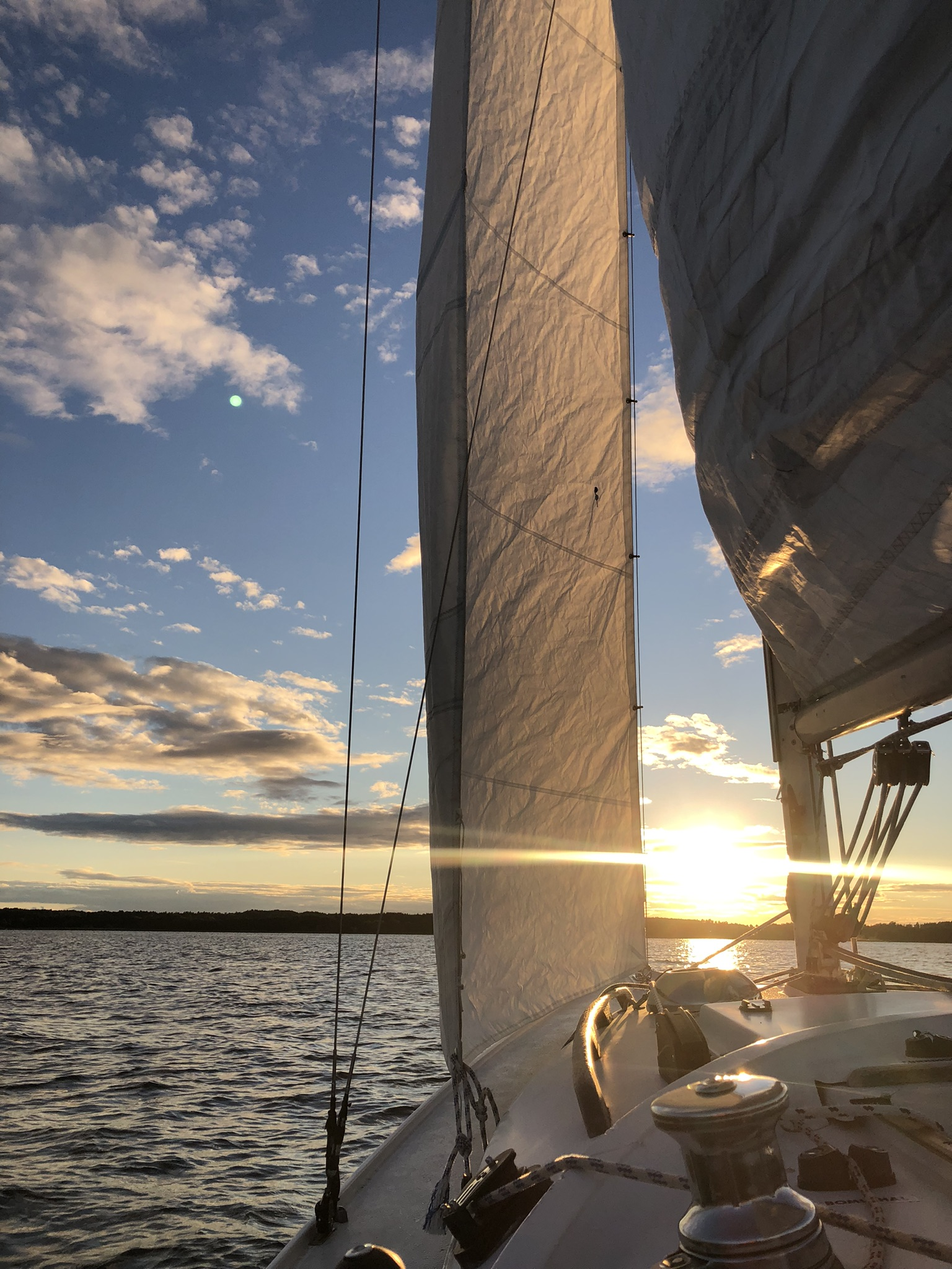
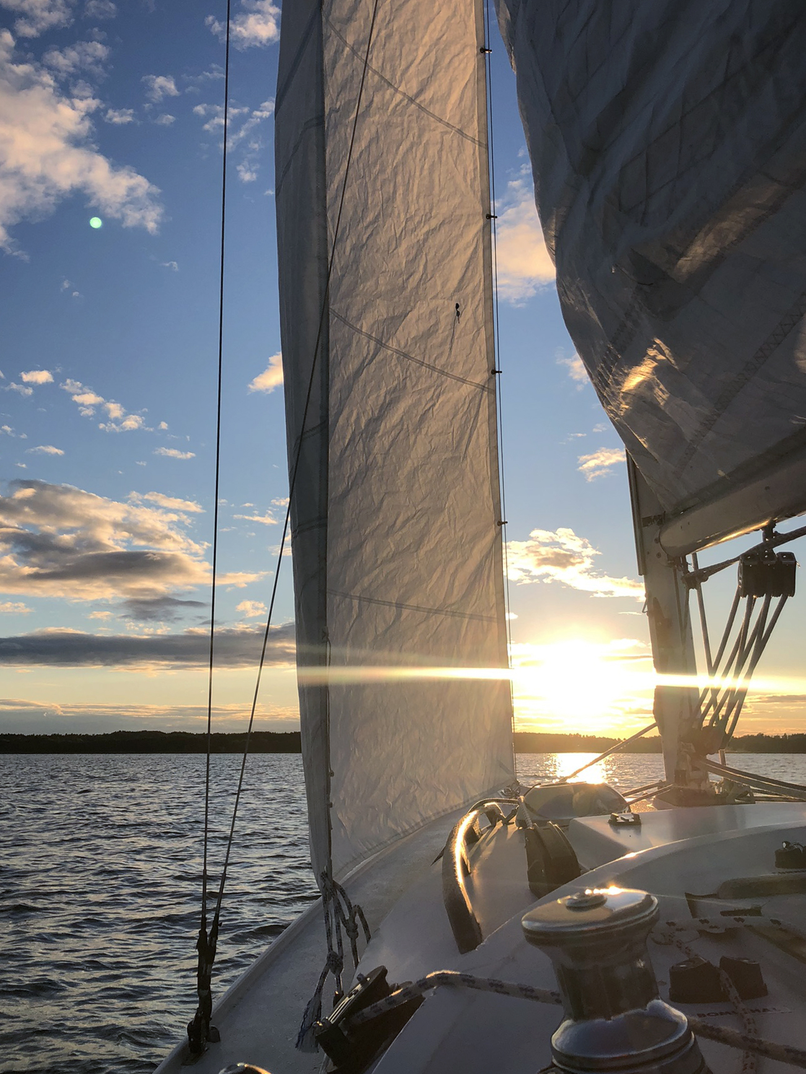
added background photos and started with other layout issues

diff --git a/src/components/Hero-section.tsx b/src/components/Hero-section.tsx
@@ -13,11 +13,10 @@ interface HeroSectionProps{
 const HeroSection = ({bgImage, title01,title02, description, children}:HeroSectionProps) => {
 
     const messages = useMessages()
-    const finalBg = bgImage ? bgImage.src : undefinedBg.src
 
     return (
-        <div className="h-175 w-full bg-cover bg-center bg-no-repeat flex flex-col gap-10"
-            style={{backgroundImage: `url(${finalBg})`}}>
+        <div className={`h-175 w-full md:bg-[url('/images/IMG_3752.JPEG')] bg-[url('/images/IMG_3420.JPEG')] bg-cover md:bg-bottom bg-right bg-gray-900 bg-no-repeat flex flex-col gap-10`}>
+            <div className='w-full bg-gray-800/40 h-full'>
                 <div className="flex flex-col gap-10 md:w-150 md:ml-37.5 md:gap-7 mx-auto text-left">
                     <div className="flex md:w-66 w-64 justify-center h-9 bg-primary mx-auto rounded-3xl 
                         border border-solid border-accent mt-16 md:opacity-60 md:ml-0">
@@ -36,6 +35,7 @@ const HeroSection = ({bgImage, title01,title02, description, children}:HeroSecti
                         </div>
                     </div>
                 </div>
+            </div>
         </div>
     )
 }

diff --git a/src/components/CTA-button.tsx b/src/components/CTA-button.tsx
@@ -8,7 +8,7 @@ const CTABtn = ({text, onClick, width = "fit"}:CTAprops) => {
     return (
         <div className="">
             <button className={`py-[18.6] px-[24] ${width === "fit" ? "w-fit" : width === "full" ? "w-full" : "w-full md:w-fit"} font-albert text-body md:text-body-desktop bg-accent text-primary overflow-hidden rounded-4xl
-                px-6 py-4 text-center cursor-pointer transition-colors duration-300 shadow-md-black ease-in-out hover:shadow-none active:scale-98 active:brightness-90 hover:bg-lightYellow`} 
+                px-6 py-4 text-center cursor-pointer transition-colors duration-300 shadow-md ease-in-out active:shadow-none active:scale-98 active:brightness-90 hover:bg-lightYellow`} 
                 onClick={onClick}>
                 {text}
             </button>
